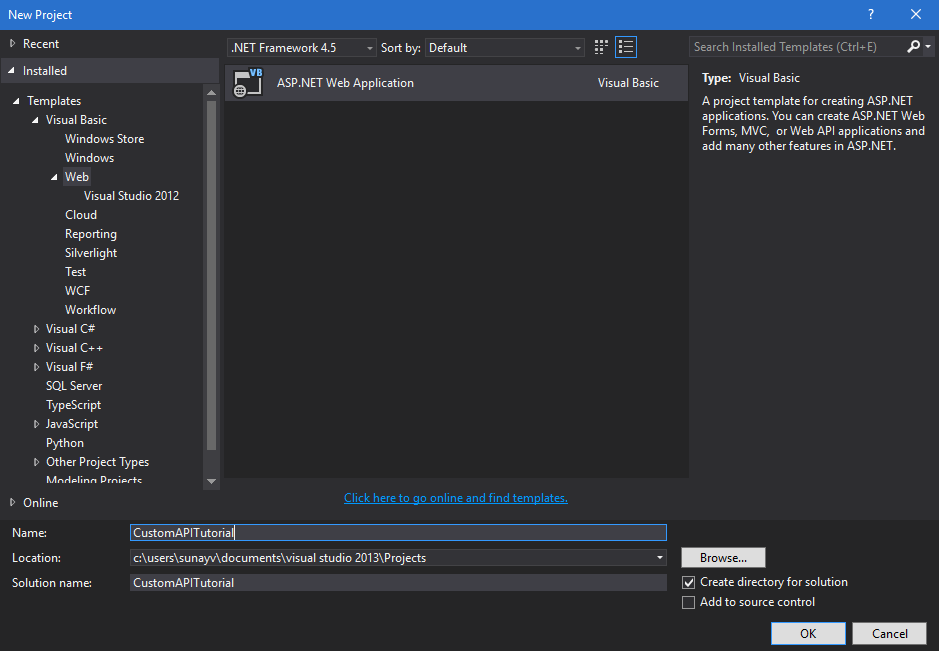
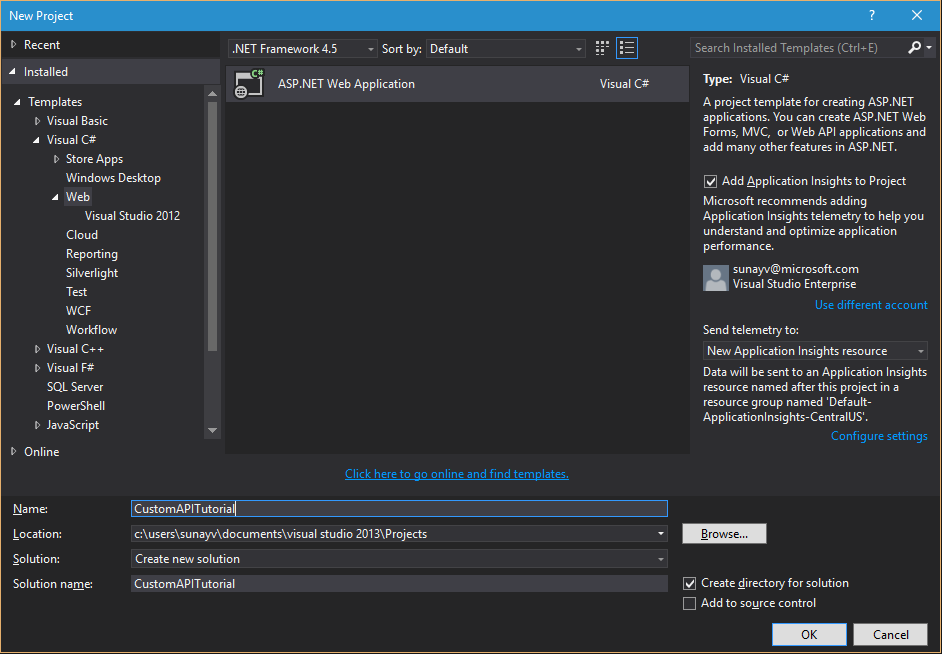
Updates

diff --git a/WebAPI/README.md b/WebAPI/README.md
@@ -9,7 +9,7 @@ This tutorial aims to teach you how to create a WebAPI and host it on Azure Weba
 * Visual studio 2013 or higher
 
 ####Step 1: Creating a WebAPI and deploying it on Azure
-1. Start off by launching visual studio and create a new ASP.NET web application.
+1. Start off by launching visual studio and create a new C# ASP.NET web application.
 ![](./images/NewWebApp.PNG "New WebApp")
 
 2. On the next screen select the web API template. 
@@ -27,6 +27,7 @@ This tutorial aims to teach you how to create a WebAPI and host it on Azure Weba
 
 6. Once you are comfortable with your web API, you will need to publish it to the Azure cloud. You can do this by going to **BUILD** > **PUBLISH** in visual studio.
 7. Extract the swagger json by navigating to ***https://\<azure-webapp-url\>/swagger/docs/v1***
+>[ATTENTION] A swagger document with duplicate operationid(s) is invalid. If you are using the sample C# template, the operation-id "Values_Get" is repeated twice. Change one instance to "Value_Get"
 
 
 ####Step 2: Setting up AAD authentication. 
